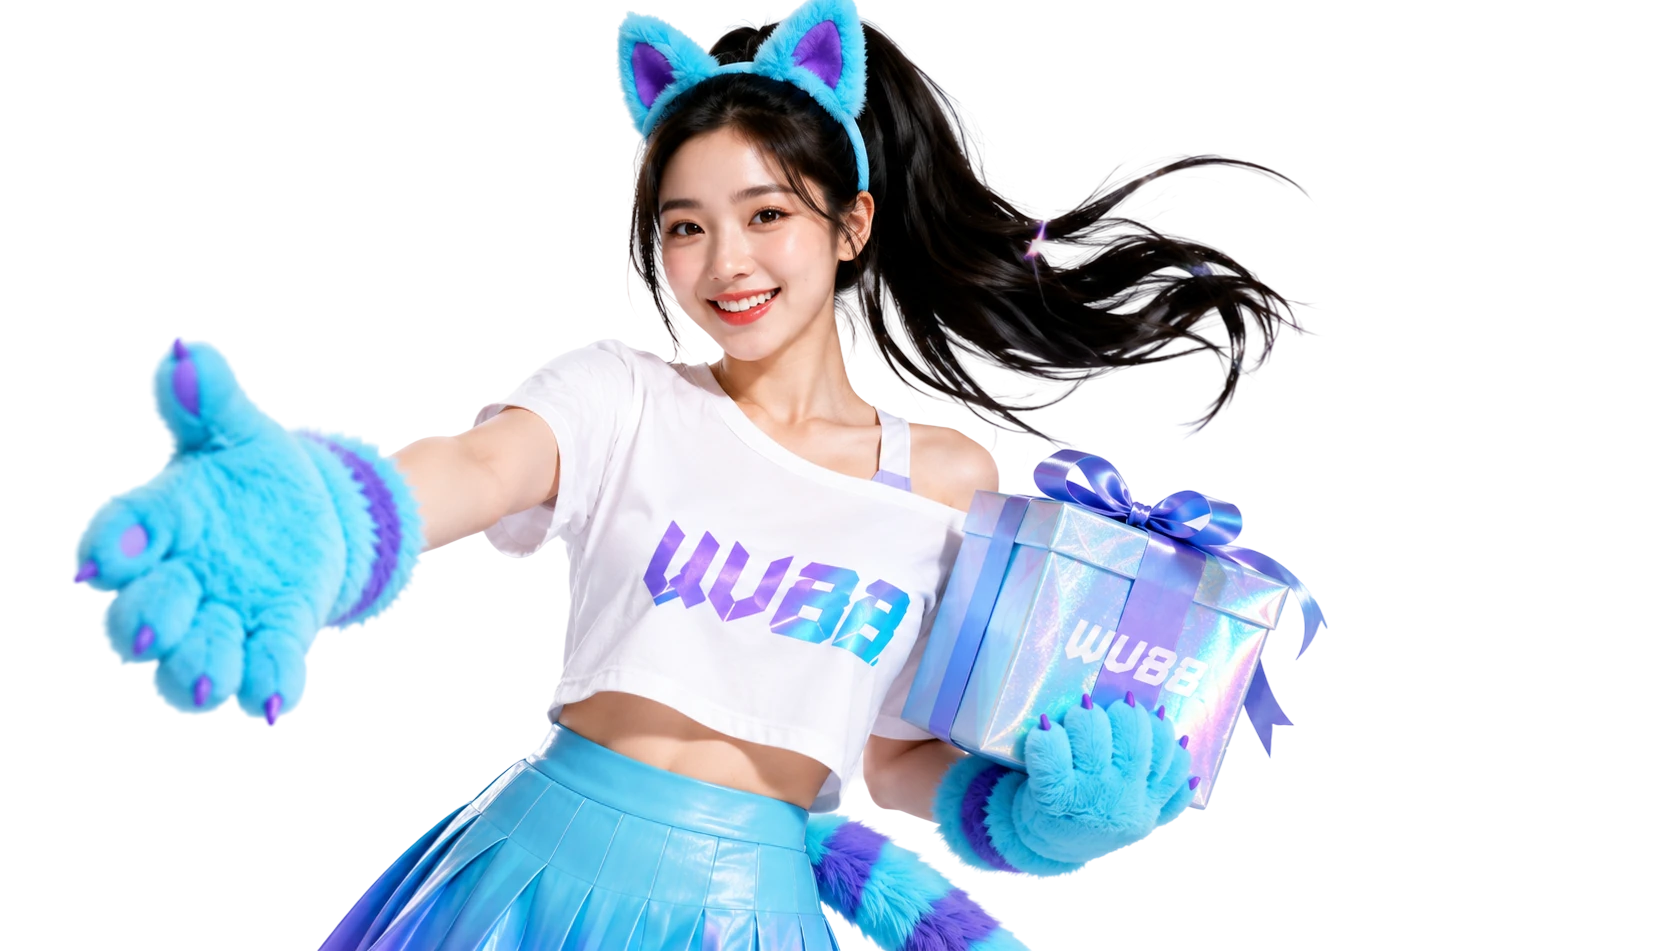
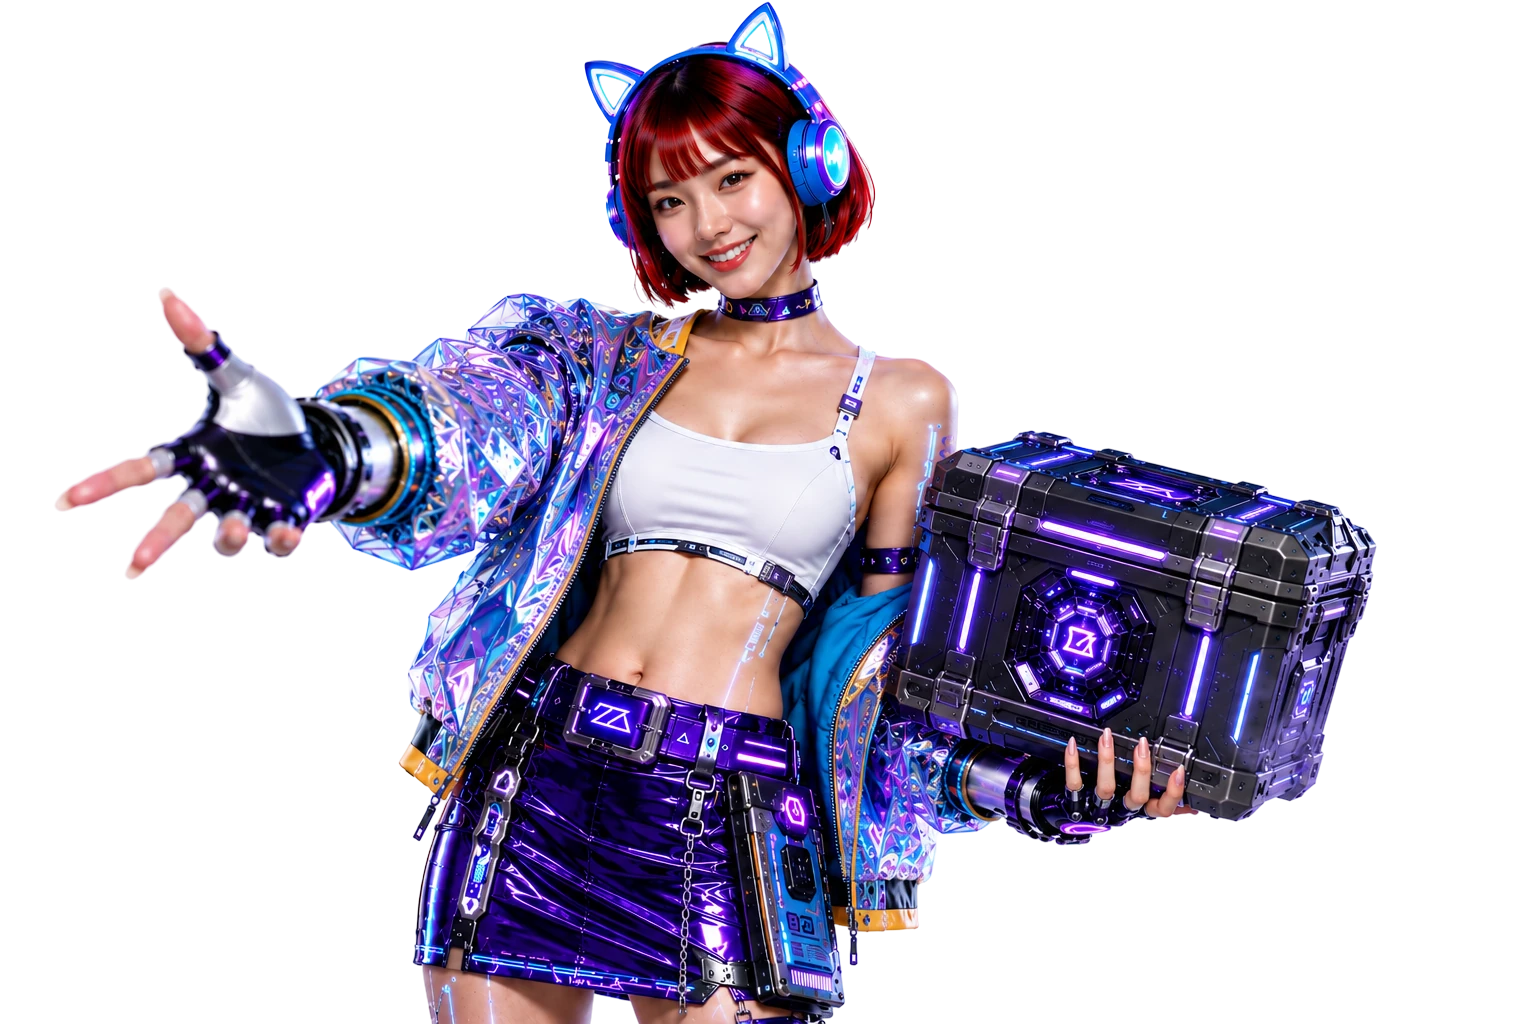
Restyle the energy hero's character into the site's cyberpunk look
Re-rendered via Higgsfield (Soul 2.0 for a consistent-identity re-render in
a cyberpunk outfit, then a Flux Kontext pass to swap what she's holding
for a treasure chest) against a white backdrop for a clean cutout, matching
the updated Figma source. Repositioned to the new asset's own box.

diff --git a/src/components/ContainerBg.tsx b/src/components/ContainerBg.tsx
@@ -109,6 +109,17 @@ function GradientHeadline({ text, gradientId }: { text: string; gradientId: stri
 // Figma's centered position) -- falls through to that shared branch
 // below rather than needing its own.
 //
+// The character herself was restyled into the site's cyberpunk look via
+// Higgsfield (reference photo -> Soul 2.0 for a consistent-identity
+// full-body re-render in the new outfit, then a Flux Kontext edit pass to
+// swap what she's holding for a treasure chest, generated straight
+// against a plain white backdrop for a clean cutout) and pasted into
+// Figma as this variant's own source photo -- same pre-cutout RGBA
+// pipeline as every other hero here, just authored with AI tools instead
+// of a studio shoot. Box (348,-12, 1536x1024) is Figma's own updated
+// layer position, not the previous still's -- re-measured after the
+// swap rather than assumed unchanged.
+//
 // Promotions: same skeleton again -- an animated chest-of-loot scene (see
 // its own sprite comment below) behind a "PROMOTIONS" headline. Figma's own
 // source for this headline is a flat white-50% fill with 20px tracking, no
@@ -233,7 +244,7 @@ export default function ContainerBg({ variant = "home" }: ContainerBgProps) {
         <img
           alt=""
           src={withBasePath("/assets/container-bg/home-hero-energy-girl.webp")}
-          className="pointer-events-none absolute right-0 top-0 h-[827px] w-[1437px] object-cover"
+          className="pointer-events-none absolute left-[348px] top-[-12px] h-[1024px] w-[1536px] object-cover"
         />
       ) : (
         <div
